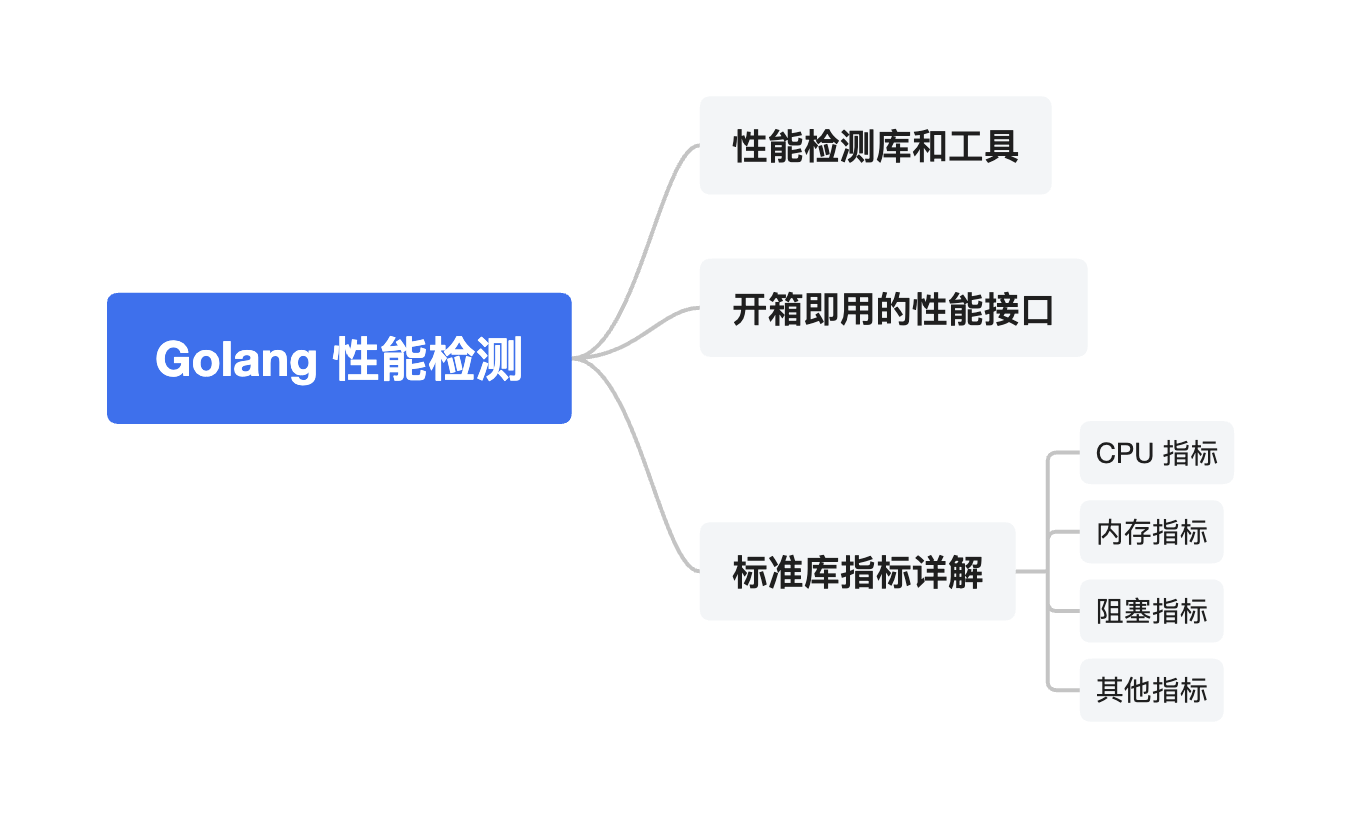
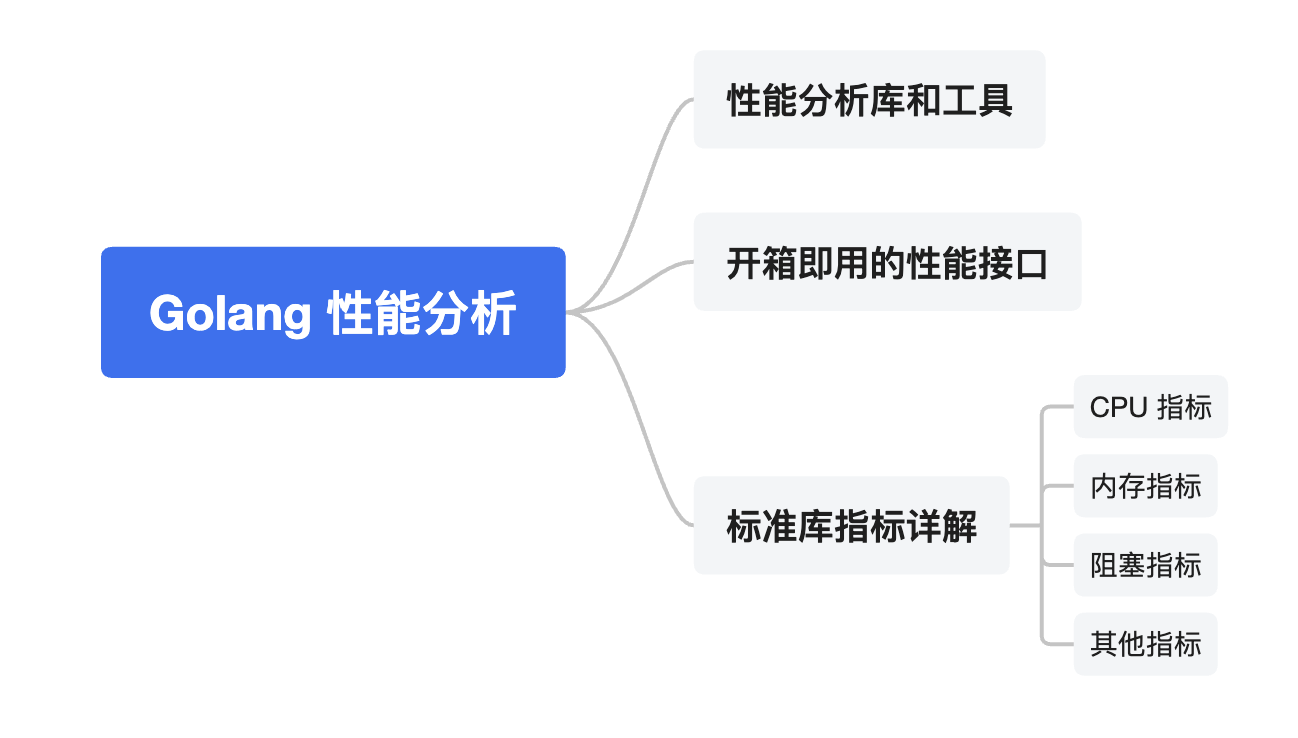
Update

diff --git a/_posts/2024-03-01-30-golang-pprof.md b/_posts/2024-03-01-30-golang-pprof.md
@@ -1,20 +1,21 @@
 ---
-title:     'Golang 性能检测'
+title:     'Golang 性能分析'
 tags:      [What, How, Golang, pprof]
+cover-img: /assets/img/cover-golang-pprof.png
 ---
 
-Golang 为性能检测提供了丰富的标准库和标准工具，本文会详细介绍他们的使用和原理。
+Golang 为性能分析提供了丰富的标准库和标准工具，本文会详细介绍他们的使用和原理。
 
-## 性能检测库和工具
+## 性能分析库和工具
 
 Golang 中提供了丰富的标准库来帮助我们配置、收集、存储性能指标信息：
 
 | 标准库 | 主要作用 | 使用场景 |
 | ----- | ------ | ------- |
-| net/http/pprof | 提供开箱即用的性能指标 HTTP 接口 | 在线检测应用性能指标，供性能检测工具使用接口 |
-| runtime/pprof  | 提供了一系列函数用于在程序运行时收集和输出性能分析数据 | 非网络应用的性能检测，或者需要深入控制检测逻辑 |
-| runtime/trace  | 提供了一系列函数用于跟踪和分析程序执行期间性能 | 非网络应用的性能检测，或者需要深入控制检测逻辑 |
-| runtime        | 提供了一系列函数用于配置性能检测参数 | 动态调整性能检测的采样率，比如配置 CPU、内存、阻塞采样频率 |
+| net/http/pprof | 提供开箱即用的性能指标 HTTP 接口 | 在线检测应用性能指标，供性能分析工具使用接口 |
+| runtime/pprof  | 提供了一系列函数用于在程序运行时收集和输出性能分析数据 | 非网络应用的性能分析，或者需要深入控制检测逻辑 |
+| runtime/trace  | 提供了一系列函数用于跟踪和分析程序执行期间性能 | 非网络应用的性能分析，或者需要深入控制检测逻辑 |
+| runtime        | 提供了一系列函数用于配置性能分析参数 | 动态调整性能分析的采样率，比如配置 CPU、内存、阻塞采样频率 |
 
 上述性能指标中的产物有些是 protocol buffers 二进制格式，Golang 提供了两个标准工具来解析它们：
 
@@ -39,7 +40,7 @@ func main() {
 }
 ```
 
-然后就可以访问 http://localhost:8082/debug/pprof/ 得到一个简约的在线性能检测页面。我们可以在这里快速对应用进行性能检测，也可以把这里的接口地址提供给性能分析工具，例如：go tool pprof 和 go tool trace 等。
+然后就可以访问 http://localhost:8082/debug/pprof/ 得到一个简约的在线性能分析页面。我们可以在这里快速对应用进行性能分析，也可以把这里的接口地址提供给性能分析工具，例如：go tool pprof 和 go tool trace 等。
 
 页面中总共有 9 个指标，底部有详细的指标介绍，方便我们快速了解他们的含义以及一些能用到的功能参数。需要关注的几点：
 1. 指标接口都是固定的：`http://localhost:8082/debug/pprof/[metric]?debug=[1]&seconds=[10]`
@@ -53,7 +54,7 @@ func main() {
 
 ### CPU 指标
 
-当我们的应用不需要网络服务，或者 net/http/pprof 的功能无法满足我们需要，此时我们就需要使用到上面列出的标准库来具体实现性能检测。
+当我们的应用不需要网络服务，或者 net/http/pprof 的功能无法满足我们需要，此时我们就需要使用到上面列出的标准库来具体实现性能分析。
 
 我们先来看下 CPU 指标检测（指标名称叫 profile），下面是具体的函数使用流程图：
 
@@ -104,7 +105,7 @@ flowchart TD
 
 ## 总结
 
-以上就是 Golang 性能检测的完整介绍，以下是汇总的导图：
+以上就是 Golang 性能分析的完整介绍，以下是汇总的导图：
 ![Golang Pprof](/assets/img/golang-pprof.png)
 
 ## 扩展阅读
